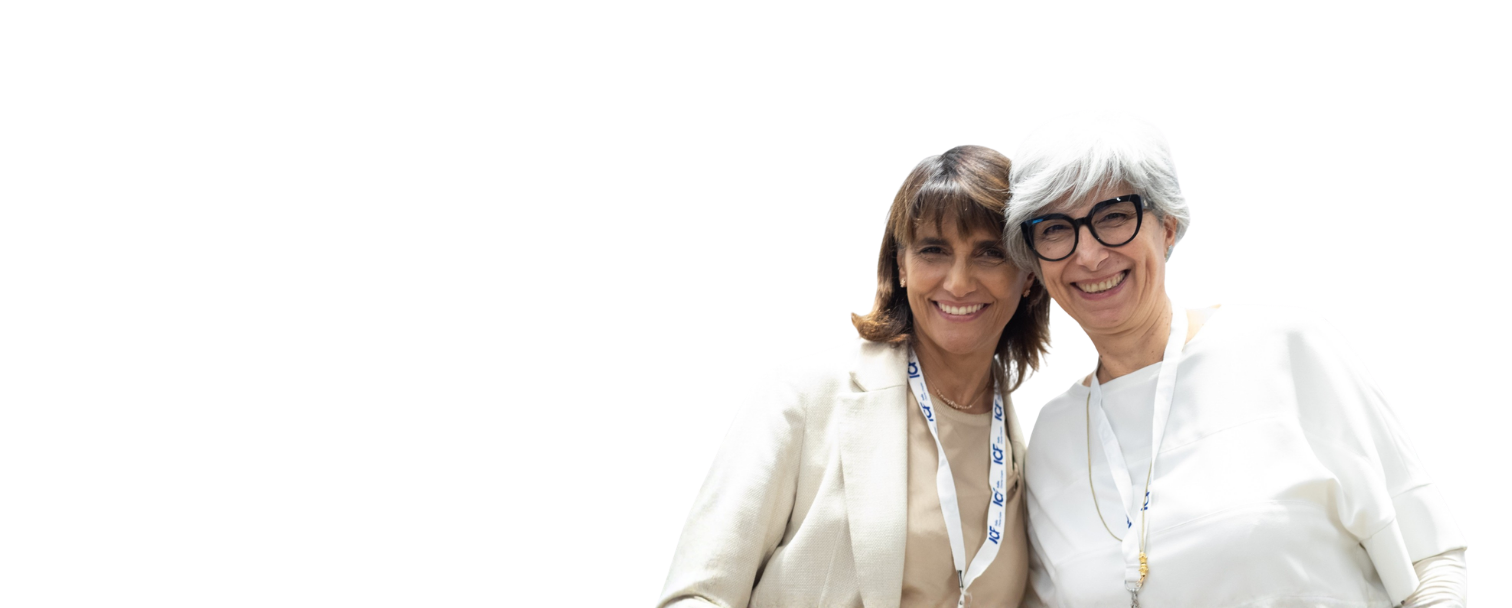
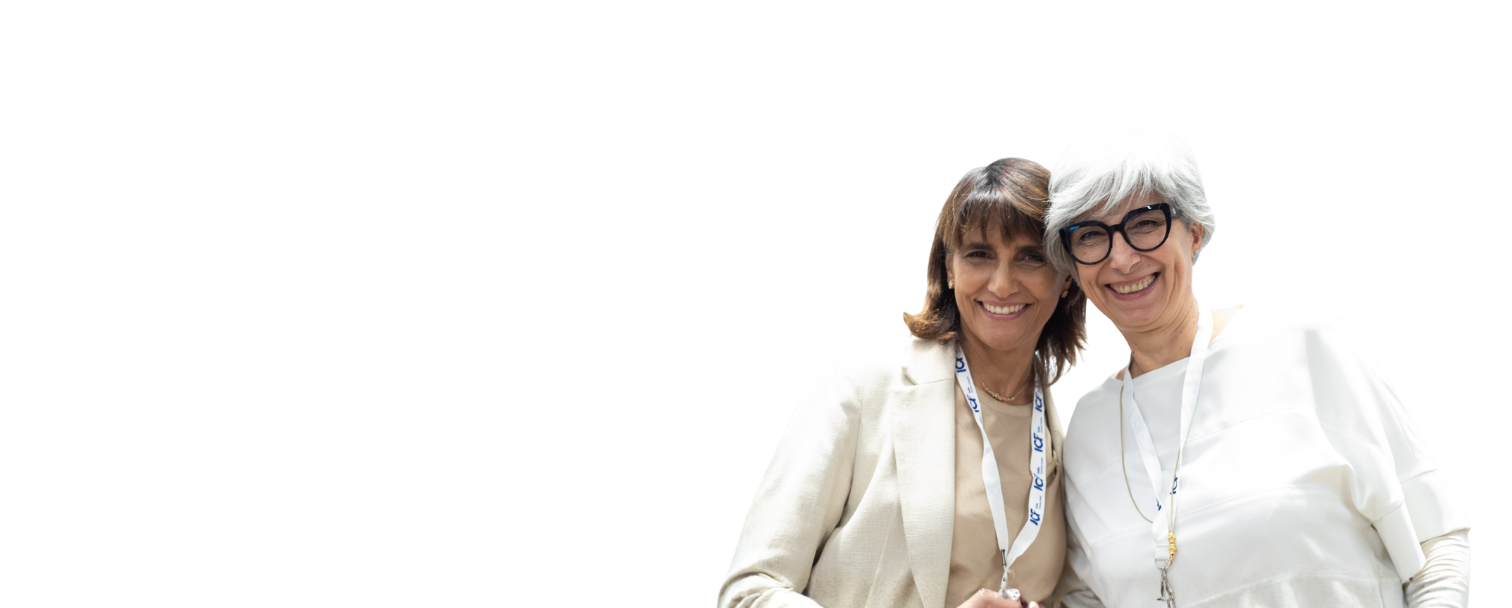
hero

diff --git a/src/pages/CourseDetail.tsx b/src/pages/CourseDetail.tsx
@@ -315,6 +315,8 @@ export default function CourseDetail({ courseId, courseData }: CourseDetailProps
   const isCoachingCircle = id === 'coaching-circle';
   const isVoiceDialogue = id === 'voice-dialogue';
   const isWorkout = id === 'eiw';
+  // Heroes using the new full-bleed 1512x608 cutout layout (people composed on the right).
+  const fullBleedHero = ['apcm', 'systemic-team-coaching', 'coaching-circle', 'voice-dialogue', 'eiw'].includes(id ?? '');
   const isCL = id === 'continuous-learning';
 
   const isMasterLike =
@@ -487,7 +489,7 @@ export default function CourseDetail({ courseId, courseData }: CourseDetailProps
             <CourseImage
               src={media.hero}
               fallbackSrc={defaultCourseMedia(id ?? 'corso').hero}
-              className="w-full h-auto object-contain aspect-[16/10] object-bottom"
+              className={`w-full h-auto object-contain object-bottom ${fullBleedHero ? 'aspect-[1512/608]' : 'aspect-[16/10]'}`}
               alt={course.title}
             />
             <div className="absolute inset-0 bg-gradient-to-t from-brand-navy/25 via-transparent to-transparent" />
@@ -550,14 +552,8 @@ export default function CourseDetail({ courseId, courseData }: CourseDetailProps
           <div className="relative self-end h-full items-end justify-center lg:justify-end hidden lg:flex">
             <div
               className={`absolute bottom-0 ${
-                id === 'apcm'
-                  ? 'right-[-26%] w-[calc(62vw-80px)] max-w-[920px] min-w-[680px] translate-x-[100px]'
-                  : id === 'coaching-circle'
+                fullBleedHero
                   ? 'right-[-36%] w-[calc(117vw-135px)] max-w-[1755px] min-w-[1215px] -translate-x-[40px]'
-                  : id === 'voice-dialogue'
-                  ? 'right-[-22%] w-[calc(82vw-65px)] max-w-[1255px] min-w-[875px] translate-x-[20px]'
-                  : id === 'eiw'
-                  ? 'right-[-8%] w-[calc(60vw+160px)] max-w-[1370px] min-w-[1090px] translate-x-[140px]'
                   : 'right-[-36%] w-[calc(78vw-80px)] max-w-[1180px] min-w-[820px] translate-x-[150px]'
               }`}
             >

diff --git a/src/pages/Home.tsx b/src/pages/Home.tsx
@@ -33,7 +33,7 @@ const Hero = () => (
         <img
           src="/home/hero-people.png"
           alt="Coach Asterys"
-          className="w-full h-auto object-contain aspect-[16/10] object-bottom"
+          className="w-full h-auto object-contain aspect-[1512/608] object-bottom"
           referrerPolicy="no-referrer"
         />
         <div className="absolute inset-0 bg-gradient-to-t from-brand-navy/25 via-transparent to-transparent" />
@@ -103,7 +103,7 @@ const Hero = () => (
       </div>
 
       <div className="relative self-end h-full items-end justify-center lg:justify-end hidden lg:flex">
-        <div className="absolute right-[-36%] bottom-0 w-[calc(78vw-80px)] max-w-[1180px] min-w-[820px] translate-x-[150px]">
+        <div className="absolute right-[-36%] bottom-0 w-[calc(117vw-135px)] max-w-[1755px] min-w-[1215px] -translate-x-[40px]">
           <img
             src="/home/hero-people.png"
             alt="Coach Asterys"

diff --git a/src/constants/coursesContent.tsx b/src/constants/coursesContent.tsx
@@ -1127,7 +1127,7 @@ export const coursesContent: Record<string, CourseData> = {
     tagline: "Il corso di Asterys Lab accreditato ICF per apprendere l'esclusivo modello di Coaching Sistemico dedicato a team e organizzazioni.",
     type: "AVANZATO",
     media: {
-      hero: "/course-media/systemic-team-coaching/hero-pier-paolo-colasanti.png",
+      hero: "/course-media/systemic-team-coaching/hero-astc.png",
       overview: "/course-media/systemic-team-coaching/astc-modello-pitto.png",
       brochureDecor: "/course-media/systemic-team-coaching/asterys-systemic-team-coaching-lab.png",
       completePractical: "/course-media/apcm/supervision-mentor.png",
